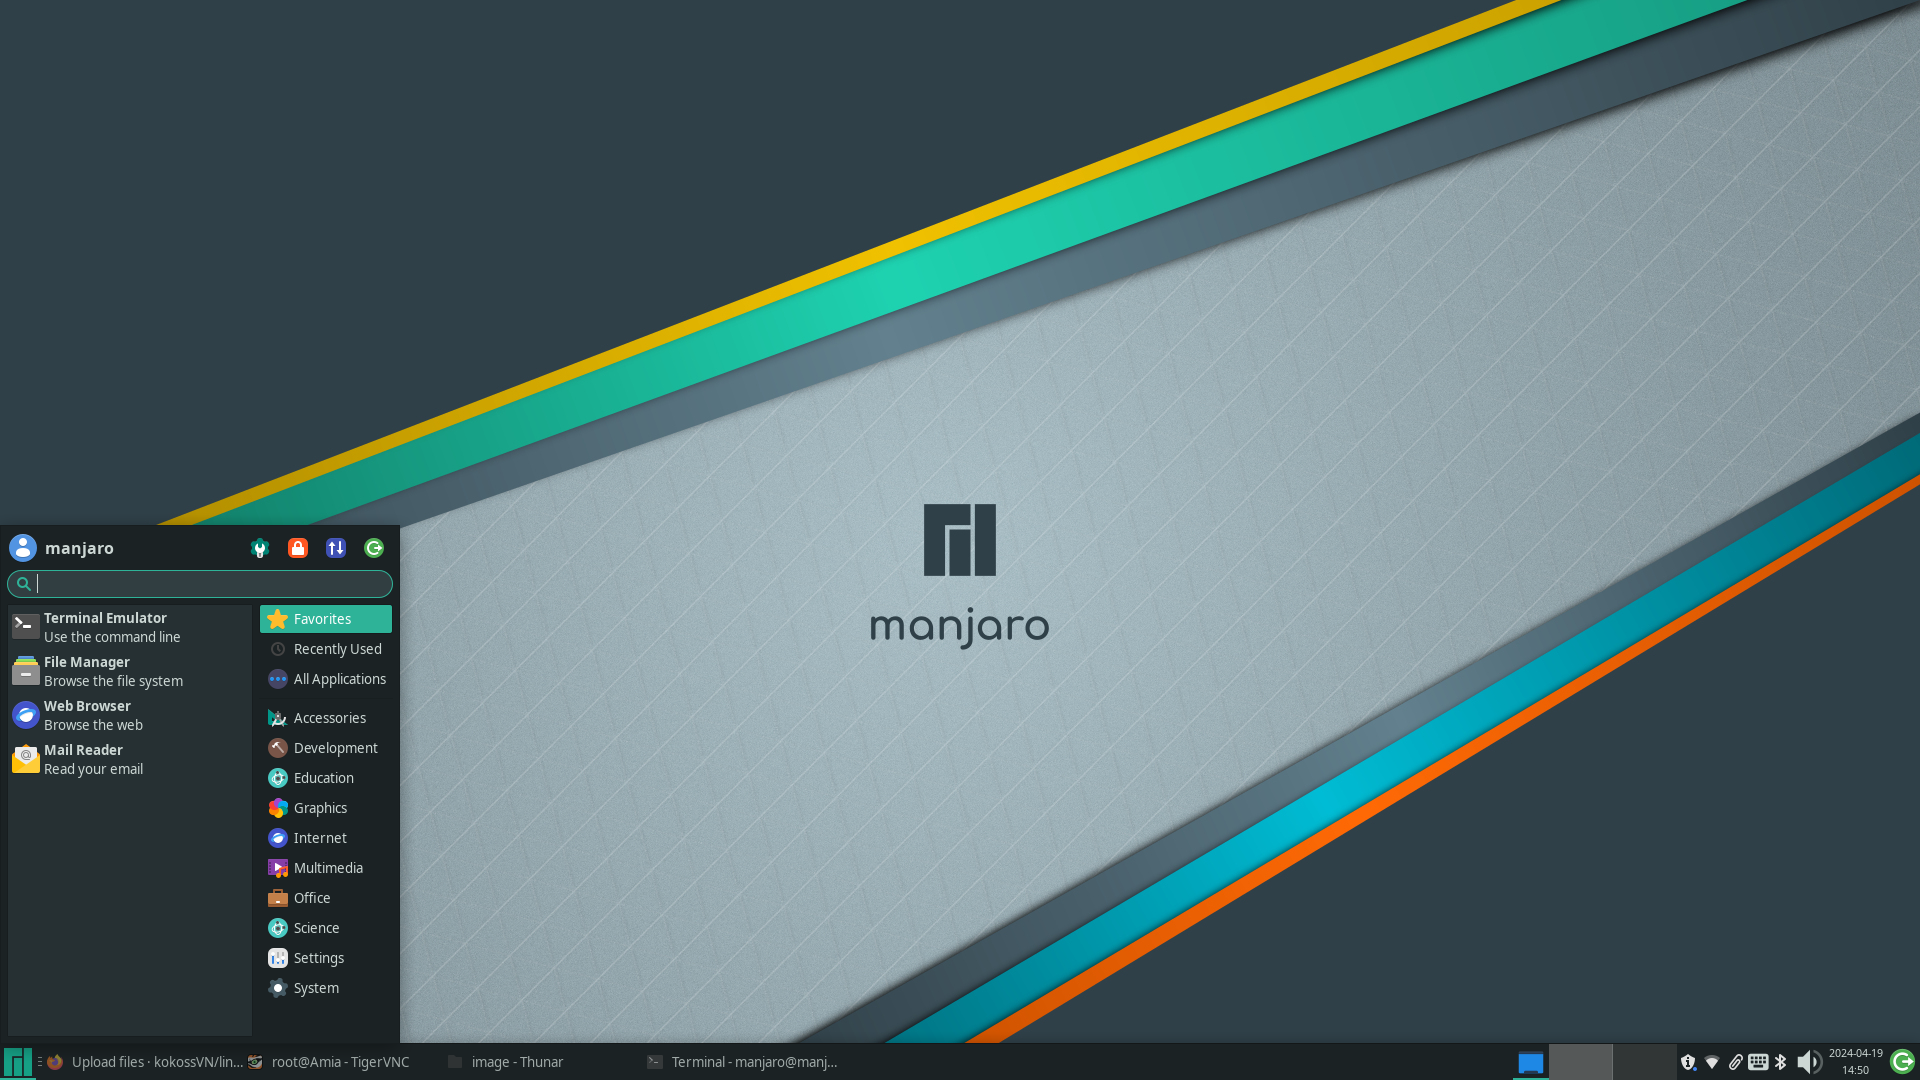
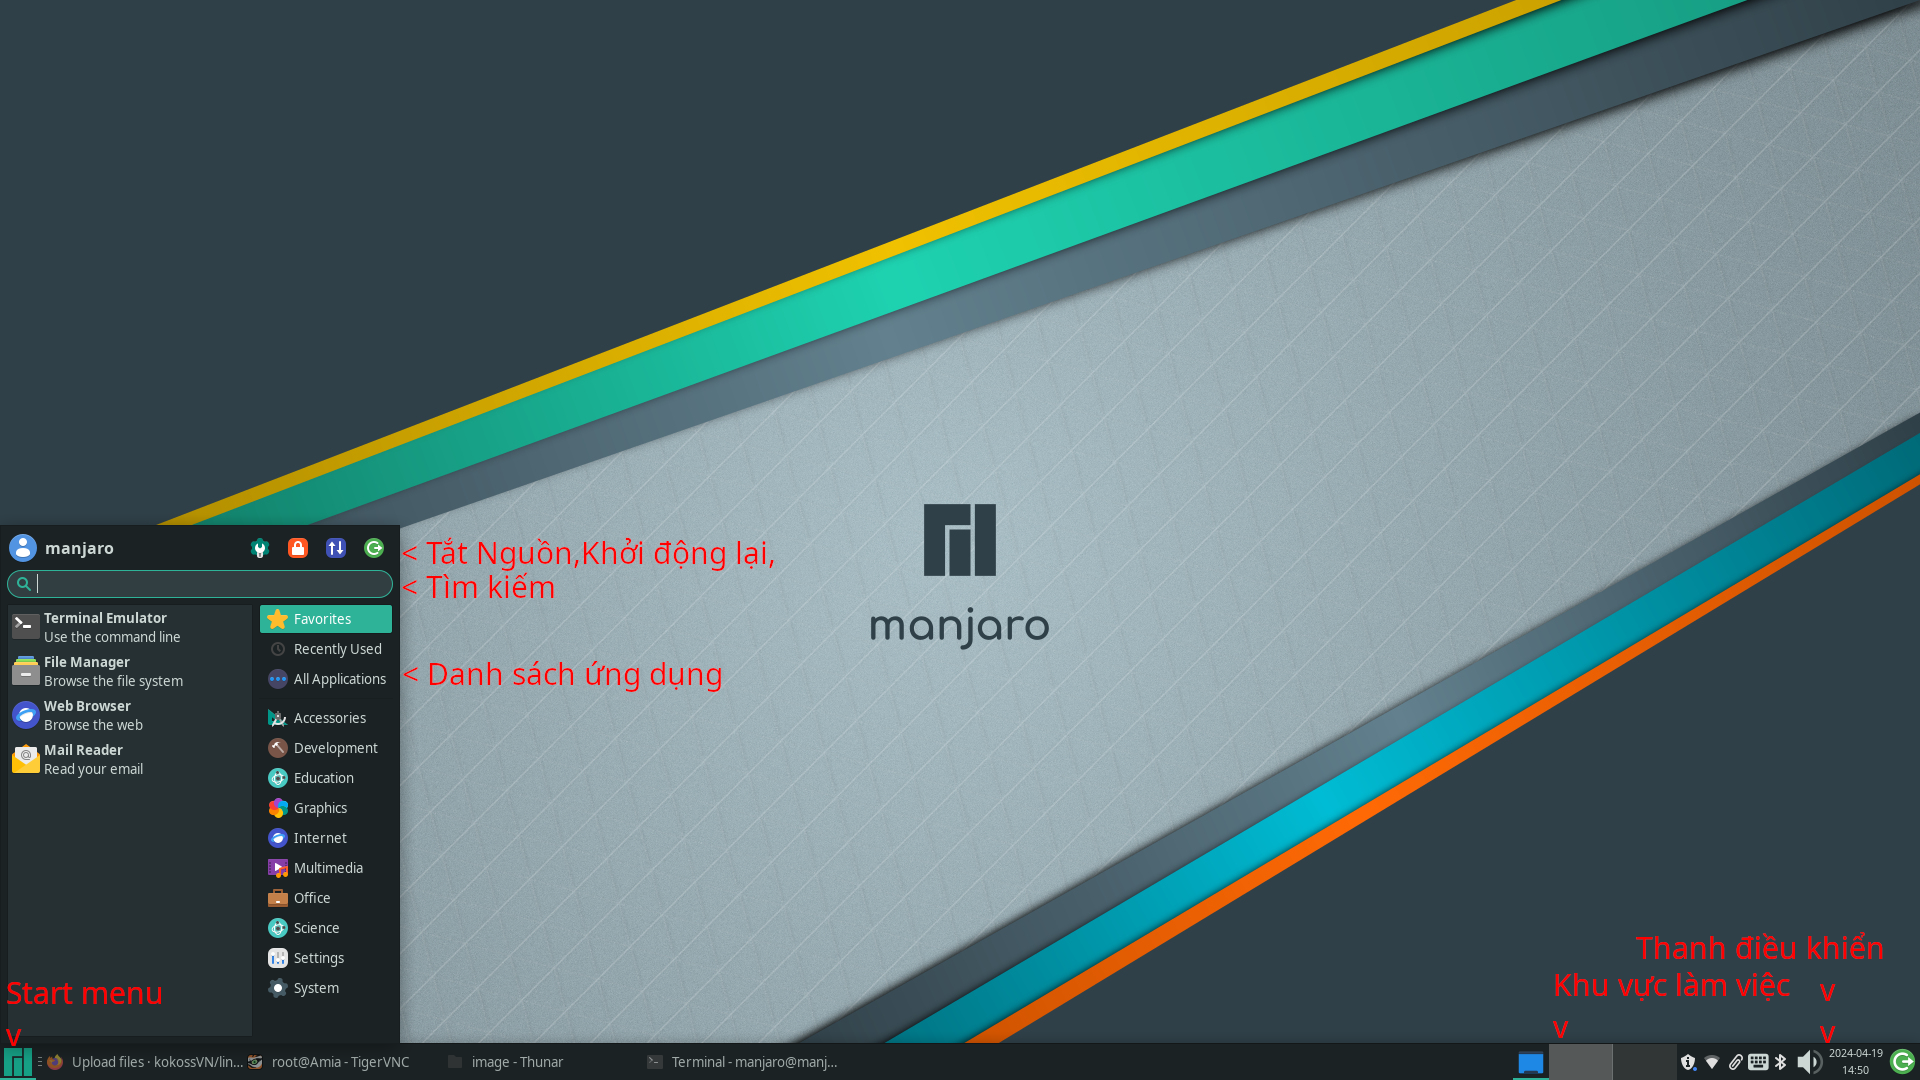
init

diff --git a/README.md b/README.md
@@ -1,21 +1,21 @@
 # Hướng dẫn cài linux qua Netboot.xyz ( cho người mới bắt đầu )
 
 
-### Hướng dẫn cài hệ điều hành qua mạng (áp dụng cho linux :v)
+## Hướng dẫn cài hệ điều hành qua mạng (áp dụng cho linux :v)
 
-#### Chuẩn bị:
-#####  Máy chủ
+### Chuẩn bị:
+####  Máy chủ
 - Docker ( ưu tiên linux :v )
 - [dhcp-netboot.xyz](https://github.com/samdbmg/dhcp-netboot.xyz): docker [netboot.xyz](https://netboot.xyz) sử dụng qua DHCP
 
-##### Máy khách
+#### Máy khách
 - có hỗ trợ Pxe/Network boot 
 - kết nối chúng mạng với máy chủ
 - có RAM ít nhất 8GB (vì netboot sẽ đưa hệ điều hành vào RAM :V)
 
-#### Cài đặt: 
+### Cài đặt: 
 
-##### Máy chủ
+#### Máy chủ
 - Sử dụng ufw để mở tưởng lửa các port như sau :
 ```bash
 sudo ufw allow proto udp from any to any port 67
@@ -55,9 +55,11 @@ docker run --net=host --cap-add=NET_ADMIN -e DHCP_RANGE_START=192.168.0.1 samdbm
 - ở summary - Install - Install Now sau đó chờ cài đặt  
 ![Start Install](./image/installer_5.png) 
 - sau khi cài đặt xong, khởi động lại
-![Install Done](./image/installer_done.png) 
-
-##### Cài bộ gõ và công cụ văn phòng 
+#### Giao diện sau khi cài đặt
+![Install Done](./image/desktop.png) 
+### cài đặt các công cụ (bằng lệnh)
+Tất cả cá công cụ đều có thể được cài qua 2 cách
+#### Cài bộ gõ và công cụ văn phòng 
 - Bộ gõ tiếng việt (fcitx5)
   - Mở Terminal Emulator
   - chạy lệnh sau với quyền admin (sudo), nhập mật khẩu và chờ cài đặt
@@ -83,13 +85,31 @@ docker run --net=host --cap-add=NET_ADMIN -e DHCP_RANGE_START=192.168.0.1 samdbm
   export QT_IM_MODULE=fcitx
   export XMODIFIERS=@im=fcitx" >> .bashrc
   ```
-- Trình duyệt và ứng dụng văn phòng ( libre office )
-  - Chạy lệnh sau dưới quyền admin (sudo), nhập mật khẩu và chờ cài đặt
-  ```bash
-  sudo pacman -Sy --noconfirm firefox libreoffice-frech
-  ```
 
-#### Những công cụ sao lưu và khôi phục dữ liệu 
+- Ứng dụng văn phòng ( libre office )
+  - Chạy lệnh sau dưới quyền admin (sudo), nhập mật khẩu và cài đặt
+  ```bash
+  sudo pacman -Sy libreoffice-frech
+  ```
+  - Sau Đó khởi chạy Libre Office ở StartMenu
+  ![LibreOffice](./image/libre.png)
+- Trình Duyệt 
+  - Firefox
+  ```bash
+  sudo pacman -Sy firefox
+  ```
+  - Chrome (Chromium)
+  ```bash
+  sudo pacman -Sy chromium
+  ```
+### Cài đặt các công cụ ( bằng giao diện)
+Tất cả cá công cụ đều có thể được cài qua 2 cách
+Trong manjaro có chương trình tên pamac (Add/Remove Software)
+![pacmac](path) 
+#### cài phần mềm chỉnh sửa ảnh  (Gimp) và ứng dụng vẽ
+
+
+### Những công cụ sao lưu và khôi phục dữ liệu 
   
   - [Deja Dup](https://apps.gnome.org/DejaDup) 
   - [Back In Time](https://github.com/bit-team/backintime) 
